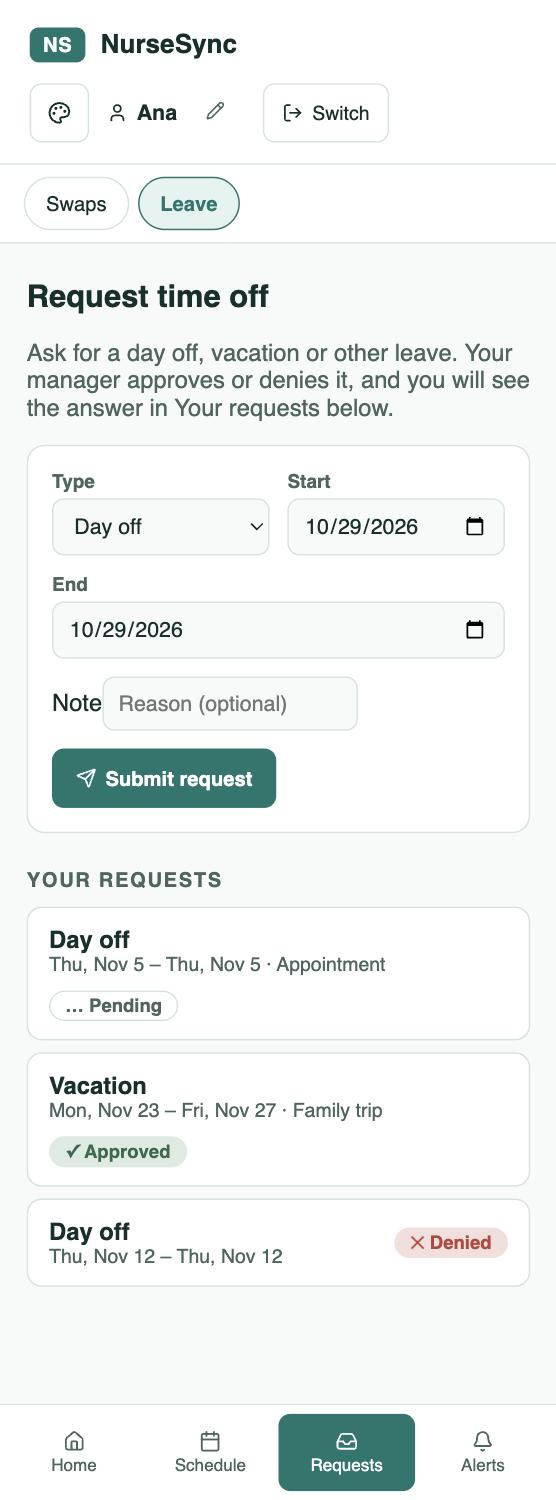
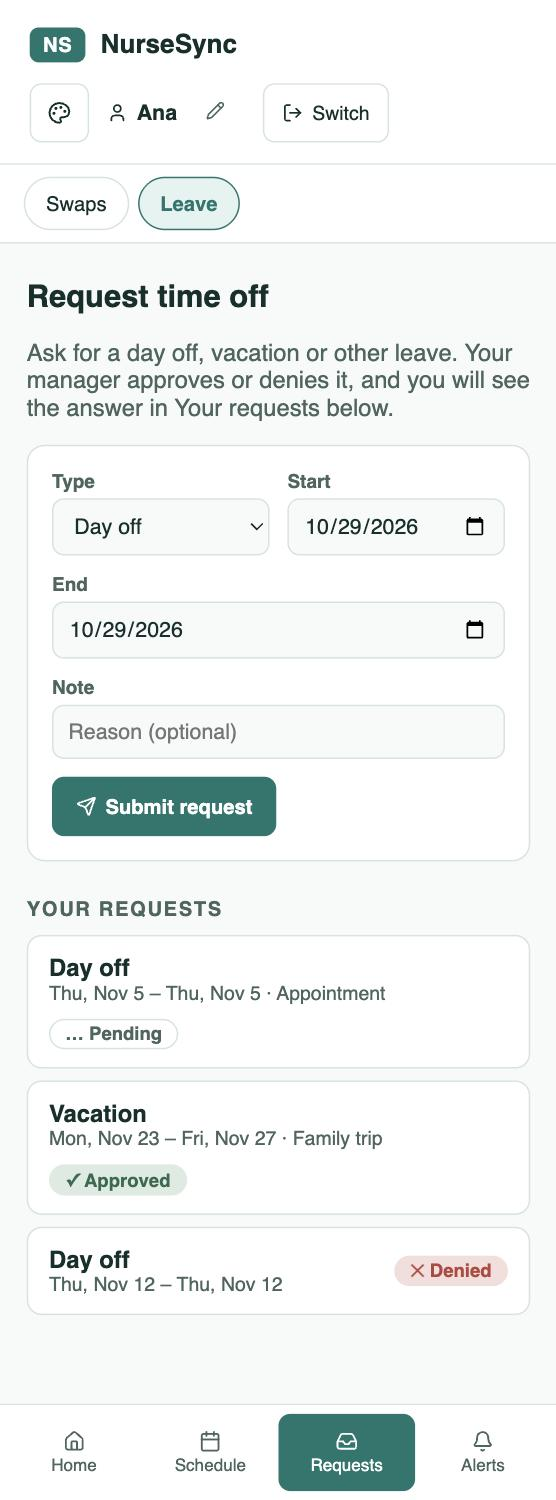
Leave form: put the Note label above its input; retake the Leave screenshot

Changed region(s): [[0.0306, 0.4293, 0.9173, 0.8587], [0.4892, 0.6133, 0.7032, 0.6747], [0.5198, 0.736, 0.7032, 0.7667]]

diff --git a/src/App.jsx b/src/App.jsx
@@ -858,7 +858,9 @@ function LeaveTab({ data, persist, notify, currentUser, showToast, prefill, onPr
           <label>Start<input type="date" value={start} onChange={(e) => setStart(e.target.value)} /></label>
           <label>End<input type="date" value={end} onChange={(e) => setEnd(e.target.value)} /></label>
         </div>
-        <label>Note<input value={note} onChange={(e) => setNote(e.target.value)} placeholder={type === "overtime" ? "How many extra hours, and why" : type === "dayoff" ? "Reason (optional)" : "Optional details"} /></label>
+        <div className="form-row">
+          <label>Note<input value={note} onChange={(e) => setNote(e.target.value)} placeholder={type === "overtime" ? "How many extra hours, and why" : type === "dayoff" ? "Reason (optional)" : "Optional details"} /></label>
+        </div>
         <button className="primary-btn" onClick={submit}><Send size={14} /> Submit request</button>
       </div>
 
